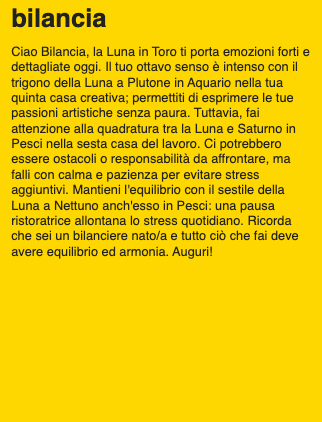
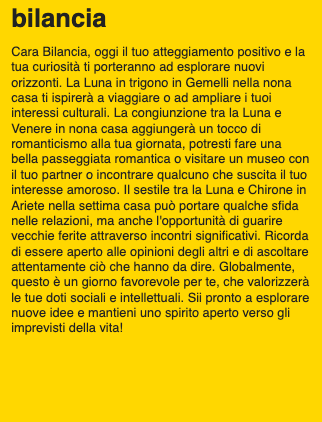
now posts all the images

Changed region(s): [[0.0311, 0.0924, 0.9627, 0.8009]]

diff --git a/src/libs/generateImage.js b/src/libs/generateImage.js
@@ -11,16 +11,16 @@ export default async function generateImage(htmlString, signName) {
     try {
 
       nodeHtmlToImage({
-        output: `./public/cards/${signName}.png`,
+        output: `./public/cards/${signName}.jpg`,
         html: `<html>
         <head>
           <style>
             body {
-              width: 300px;
-              height: 400px;
+              width: 900px;
+              height: 1200px;
               font-family: Helvetica;
-              padding: .7rem;
-              font-size: .8rem;
+              padding: 3rem;
+              font-size: 2.5rem;
               background: gold;
               color: #222;
               line-height: 120%;

diff --git a/src/pages/api/tweet.js b/src/pages/api/tweet.js
@@ -24,16 +24,21 @@
 
 import { tweetCard } from '@/libs/tweetImage';
 import path from 'path';
+import { zodiacSigns } from '../../../assets/zodiacSigns';
 
 export default async function handler(req, res) {
   try {
+
+for (let sign of zodiacSigns){
+    const tweet = await tweetCard(sign.name)
+
+    console.log("TWEET SENT!!!", tweet);
+}
    
-   const tweet = await tweetCard('pesci')
 
     
 
-    console.log("TWEET SENT!!!", tweet);
-    res.status(200).json({ res: "tweet sent!", tweet });
+    res.status(200).json({ res: "all tweets sent!", });
   } catch (error) {
     console.log(error);
     res.status(400).json({ error });

diff --git a/src/libs/tweetImage.js b/src/libs/tweetImage.js
@@ -7,7 +7,7 @@ const client = new TwitterApi({
   accessSecret: process.env.ACCESS_TOKEN_SECRET,
 });
 export async function tweetCard(sign) {
-  const imagePath = path.join(process.cwd(), "public", "cards", sign + ".png");
+  const imagePath = path.join(process.cwd(), "public", "cards", sign + ".jpg");
   const mediaId = await client.v1.uploadMedia(imagePath);
   const newTweet = await client.v1.tweet("Hello!", { media_ids: mediaId });
 

diff --git a/src/components/Card.js b/src/components/Card.js
@@ -21,8 +21,8 @@ const Card = ({ data}) => {
         <style jsx>
           {`
           .card {
-              width: 300px;
-              height: 400px;
+              width: 600px;
+              height: 800px;
               font-family: Helvetica;
               padding: .7rem;
               font-size: .75rem;

diff --git a/src/pages/api/handleImage.js b/src/pages/api/handleImage.js
@@ -10,7 +10,7 @@ import { zodiacSigns } from '../../../assets/zodiacSigns';
 
 export default async function handler(req, res) {
   const {today, yesterday} = getTodayYesterdayTomorrow()
-  const signs = await getJson(yesterday)
+  const signs = await getJson(today)
   
   try {
     for (let sign of signs) {
